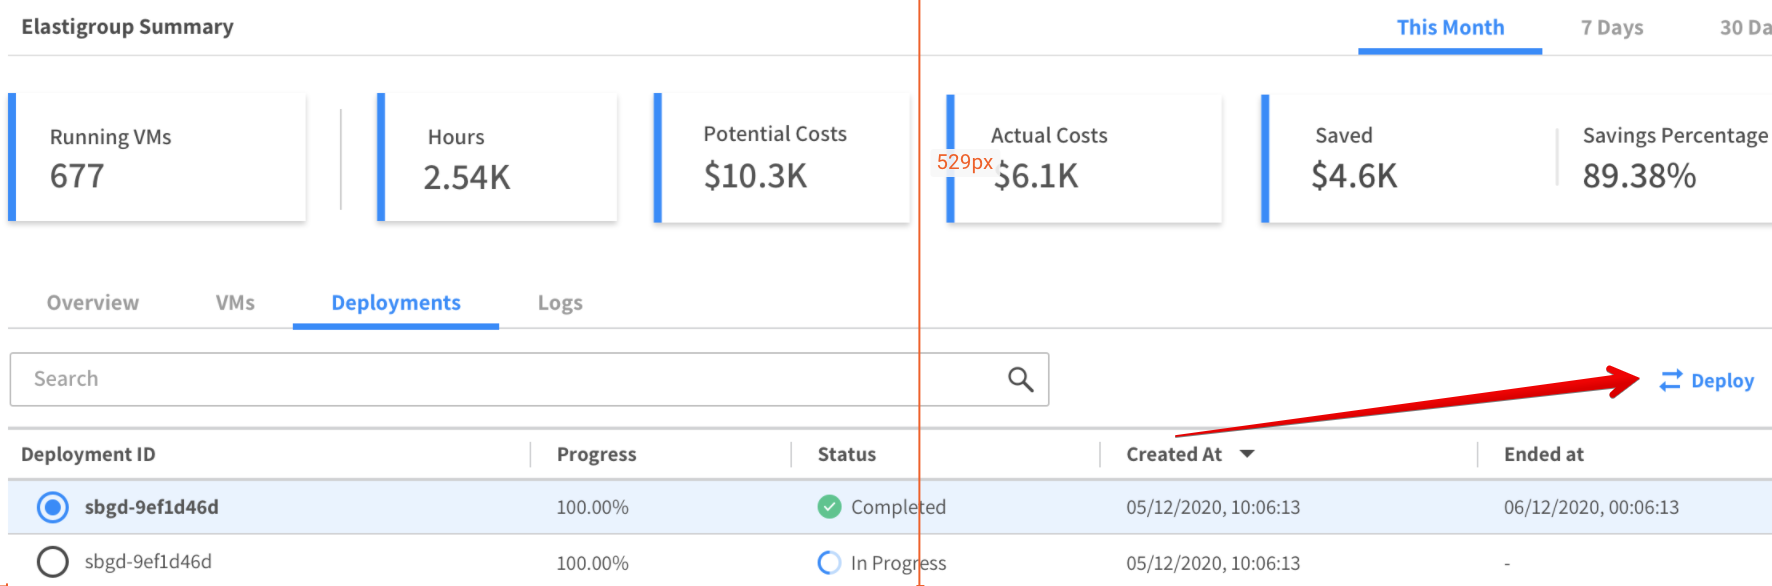
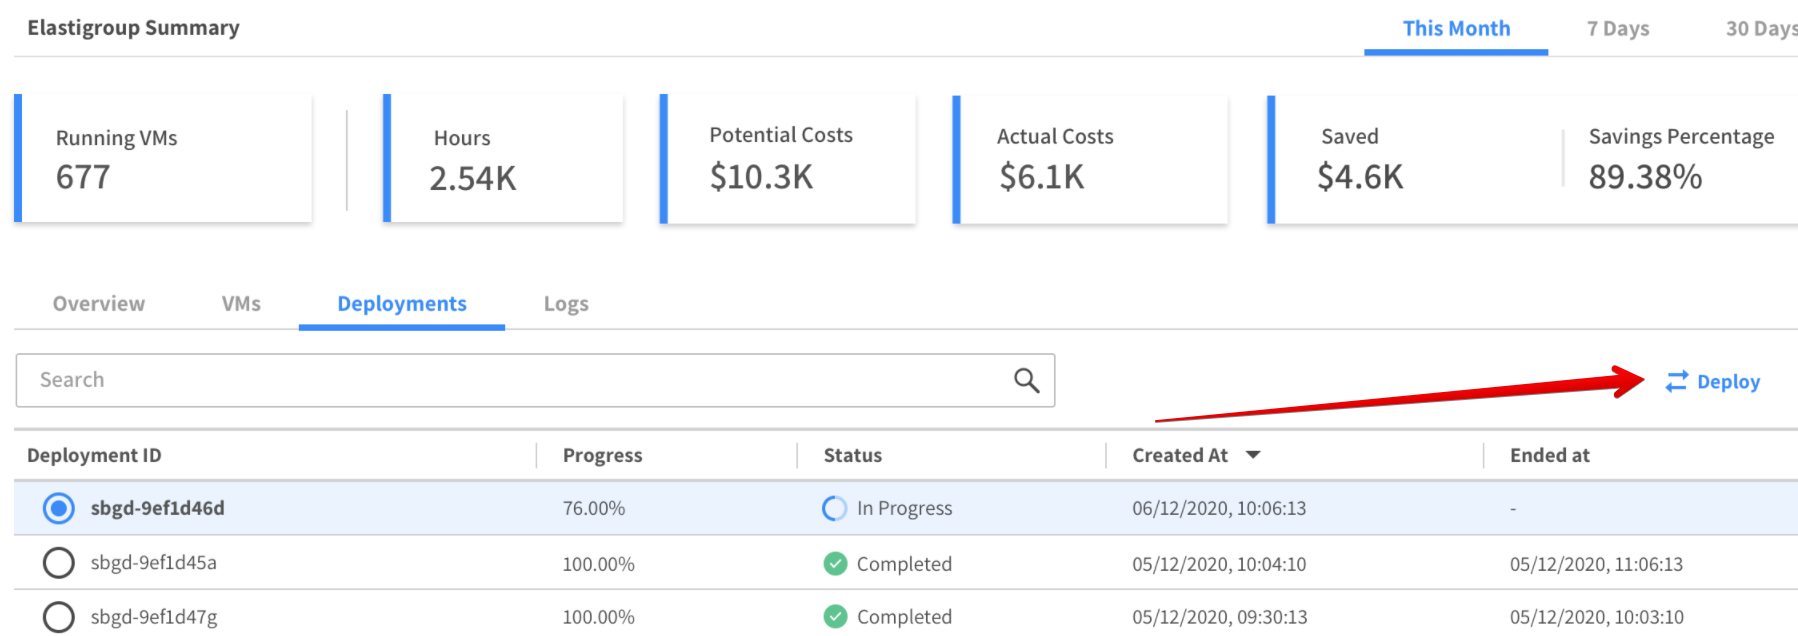
deploy an elastigroup

diff --git a/src/docs/elastigroup/tutorials/azure/deploy-an-elastigroup.md b/src/docs/elastigroup/tutorials/azure/deploy-an-elastigroup.md
@@ -1,1 +1,97 @@
 # Deploy an Elastigroup
+
+Whenever you wish to upgrade your application version or any configuration attribute in the Elastigroup, you can run Elastigroup’s blue-green deployment to update the VMs in the group.
+Instead of having to write your own scripts, you simply provide a new image and define your desired batch sizes, and  Elastigroup will replace your VMs with updated versions. Each batch waits for healthy (green) instances before moving on to the next batch, ensuring high availability for your workloads.
+
+This procedure describes how to execute a blue-green deployment of an Elastigroup and shows you how to view information about past deployments and deployments in progress.
+
+## Relevance
+
+This tutorial is relevant for users of Spot with Microsoft Azure.
+
+## When to Use
+
+You will need to run a deployment whenever one of the following cases applies:
+* You have upgraded application versions in your cluster.
+* You have made changes to the Elastigroup that affect the VM configuration. In this case, you will be prompted automatically to create a new deployment after updating the configuration.
+
+<img src="/elastigroup/_media/tutorials-azure-deploy-eg-00.png" />
+
+Use the procedure below to create the new deployment starting from Step 3.
+
+## Create a New Deployment
+
+If you need to create a new deployment and you have not received the prompt shown above, use the steps below to create and roll the deployment.
+1. Go to Elastigroup/Groups and click an Elastigroup.
+2. Click More Actions and click Deploy.
+
+<img src="/elastigroup/_media/tutorials-azure-deploy-eg-01.png" />
+
+   Alternatively, in the Elastigroups Summary click the Deployments tab and click Deploy.
+
+<img src="/elastigroup/_media/tutorials-azure-deploy-eg-02.png" />
+
+3. Complete the information in the Deployment dialog:
+
+<img src="/elastigroup/_media/tutorials-azure-deploy-eg-03.png" />
+
+   * Batch size: The size of each batch in the deployment as a percent of the total number of VMs in the group. For example, a group with 20% will deploy VMs in five separate batches.
+   * Grace period: The amount of time to wait for a VM to be deemed healthy according to the health check setting before the deployment starts the next batch. The grace period must be at least 120 seconds.
+   * Health Check Types: The health check type to be used for the deployment process. This field is enabled only if at least one [health check type](https://docs.spot.io/api/#operation/elastigroupAzureSpotVmsCreate) has been defined for the Elastigroup.
+4. If you want to used the Advanced parameters, click Advanced and complete the following:
+   * Draining Timeout: The amount of time (seconds) that Elastigroup will de-register and drain the VM before termination. This definition will override the general Draining Timeout defined in the group.
+   * Min. Health: Defines the minimum number of unhealthy VMs (as a %) required for the deployment process to fail. This field is enabled only if at least one health check type or one [signal](https://docs.spot.io/api/#operation/elastigroupAzureSpotVmsCreateVMSignal) has been previously defined.
+5. Click Roll Deployment.
+
+When you roll the deployment, Elastigroup starts a process that replaces the existing (blue) VMs with new (green) ones. The health checks you defined will monitor the status, and a banner will be displayed showing the progress.
+
+<img src="/elastigroup/_media/tutorials-azure-deploy-eg-03a.png" />
+
+## View Deployments
+
+To view information about a deployment in progress or past deployments, go to the Deployments tab in your Elastigroup.
+
+<img src="/elastigroup/_media/tutorials-azure-deploy-eg-04.png" />
+
+The Deployments tab includes the following main areas:
+* Deployment Summary
+* Deployment Details
+
+When at least one deployment is in progress, the Deployments tab refreshes information automatically every 30 seconds.
+
+### Deployment Summary
+
+The Deployment summary is a table that lists deployments created according to Deployment ID. Each deployment shows the following information:
+* Deployment ID
+* Progress
+* Status
+* Created at
+* Ended at
+
+This table shows up to 100 deployments.
+
+### Deployment Details
+
+This area displays the details of the deployment selected in the summary table. The information is divided into the following tabs:
+* Overview: Summary for the selected deployment including:
+  * Deployment ID
+  * Number of batches
+  * Current batch
+  * Status
+  * Started at
+  * Ended at
+  * Health Check
+  * Grace Period
+  * Blue VMs
+  * Green Vms
+* VMs: Listing of each VM in the Elastigroup and current status of the VM. A VM can have one of the following statuses:
+  * Pending
+  * Running
+  * Detached
+  * Healthy
+  * Unhealthy
+* Events: An accounting of each event occurring in deployment, listed in chronological order.
+
+## What’s Next?
+
+Learn more about using the API to [set up health checks](https://docs.spot.io/api/#operation/elastigroupAzureSpotVmsCreate) for your Elastigroup.
